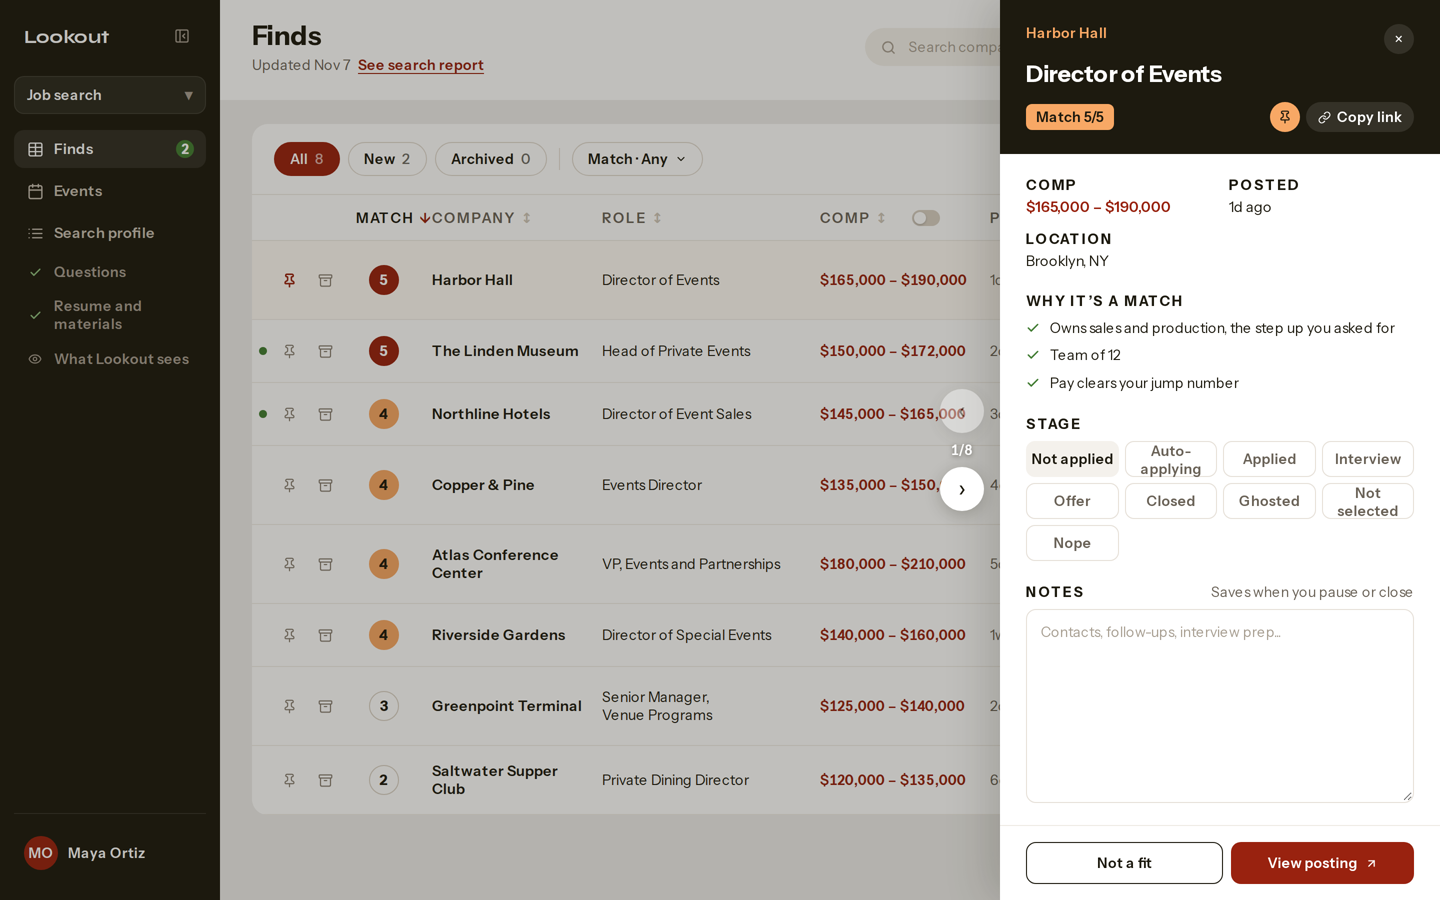
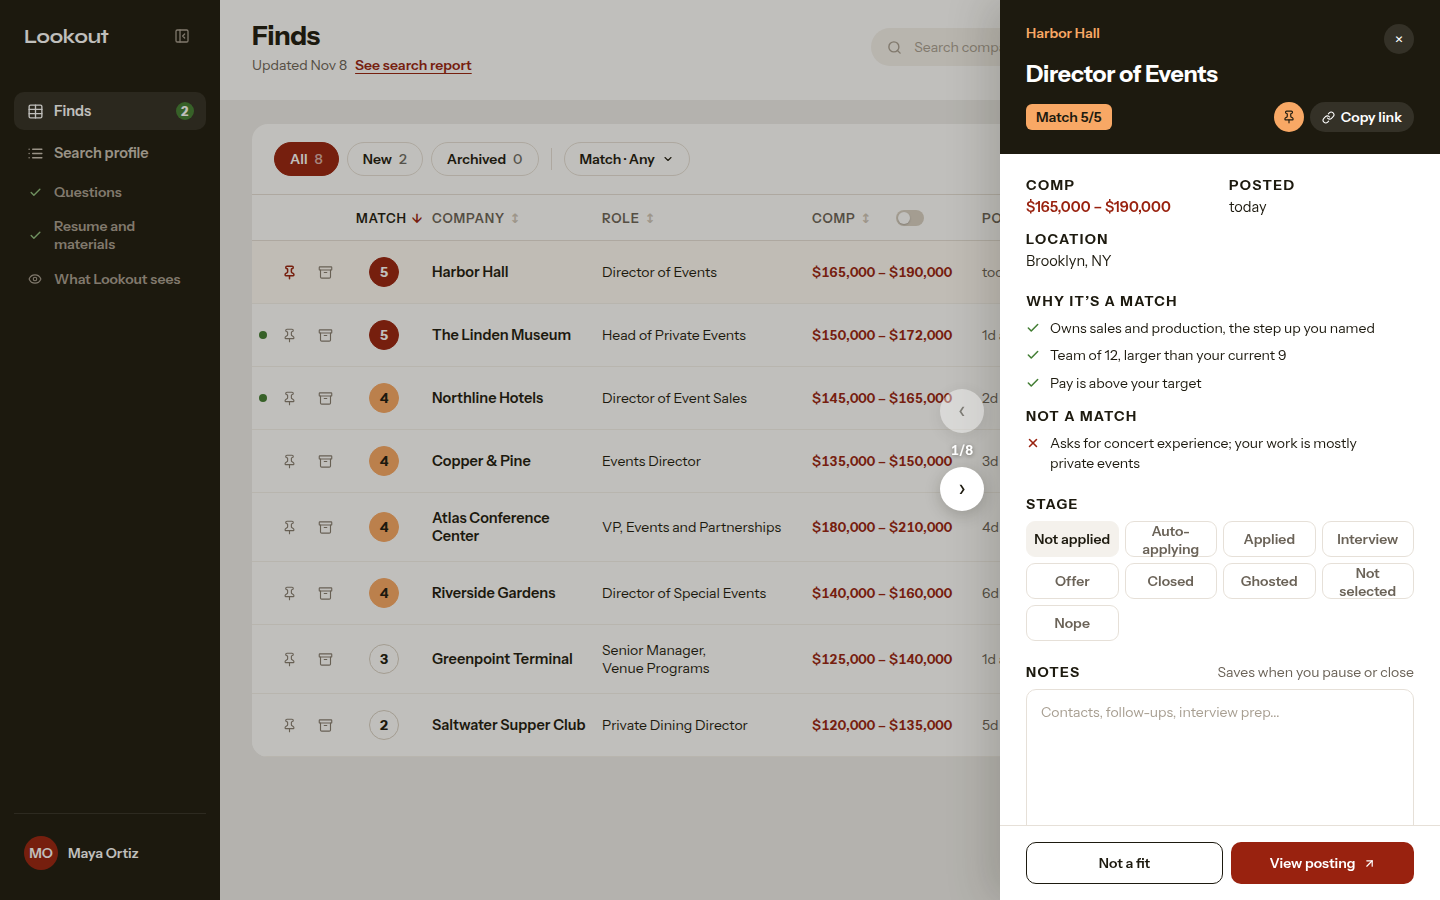
README: new screenshots from the workflow and a hero GIF (#534)

diff --git a/README.md b/README.md
@@ -8,11 +8,13 @@ Why it exists: I built it for my own job search. An agent read the postings and 
 
 Jobs are the first opportunity type. Type-specific pieces live in `src/lib/kinds` so other types (RFPs next) can reuse the engine. See [ROADMAP.md](ROADMAP.md) for what's next and [CHANGELOG.md](CHANGELOG.md) for every release. Live at https://lookout.ericdevlin.co (alias: paulfinds.pauljustinscott.com). Invite only.
 
+![Opening a find from the board and closing it again.](docs/screenshots/hero.gif)
+
 ![The Finds board: eight roles scored 1 to 5 against the profile, with pay, stage and location.](docs/screenshots/finds-board.png)
 
 ![A find opened: why it's a match, the stage picker and notes.](docs/screenshots/find-detail.png)
 
-Screenshots use a made-up demo account; no real user data.
+Screenshots use a made-up demo account; no real user data. The Screenshots workflow redraws them: run it from the Actions tab and copy its artifact into `docs/screenshots`.
 
 ## Stack
 
